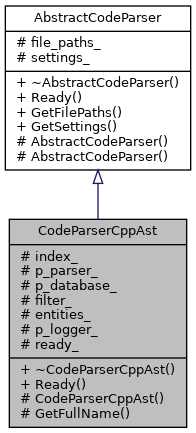
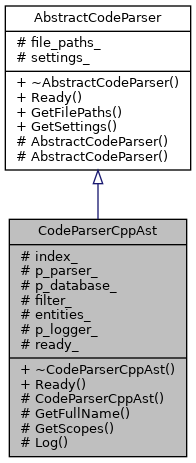
deploy: 340f6d58fc4ce7bb8d2b711c8d35426fe6431978

Changed region(s): [[0.0, 0.0, 0.9796, 0.9908]]

diff --git a/class_function_parser_impl.html b/class_function_parser_impl.html
@@ -100,8 +100,8 @@ Inheritance diagram for FunctionParserImpl:</div>
 <div class="dyncontent">
 <div class="center"><img src="class_function_parser_impl__inherit__graph.png" border="0" usemap="#a_function_parser_impl_inherit__map" alt="Inheritance graph"/></div>
 <map name="a_function_parser_impl_inherit__map" id="a_function_parser_impl_inherit__map">
-<area shape="rect" title="Code ParserCppAst Class." alt="" coords="7,476,189,597"/>
-<area shape="rect" href="class_code_parser_cpp_ast.html" title="Code ParserCppAst Class." alt="" coords="9,219,187,428"/>
+<area shape="rect" title="Code ParserCppAst Class." alt="" coords="7,505,189,627"/>
+<area shape="rect" href="class_code_parser_cpp_ast.html" title="Code ParserCppAst Class." alt="" coords="9,219,187,457"/>
 <area shape="rect" href="class_abstract_code_parser.html" title="Abstract Code Parser Class." alt="" coords="5,5,191,171"/>
 </map>
 </div>
@@ -110,8 +110,8 @@ Collaboration diagram for FunctionParserImpl:</div>
 <div class="dyncontent">
 <div class="center"><img src="class_function_parser_impl__coll__graph.png" border="0" usemap="#a_function_parser_impl_coll__map" alt="Collaboration graph"/></div>
 <map name="a_function_parser_impl_coll__map" id="a_function_parser_impl_coll__map">
-<area shape="rect" title="Code ParserCppAst Class." alt="" coords="7,476,189,597"/>
-<area shape="rect" href="class_code_parser_cpp_ast.html" title="Code ParserCppAst Class." alt="" coords="9,219,187,428"/>
+<area shape="rect" title="Code ParserCppAst Class." alt="" coords="7,505,189,627"/>
+<area shape="rect" href="class_code_parser_cpp_ast.html" title="Code ParserCppAst Class." alt="" coords="9,219,187,457"/>
 <area shape="rect" href="class_abstract_code_parser.html" title="Abstract Code Parser Class." alt="" coords="5,5,191,171"/>
 </map>
 </div>
@@ -148,6 +148,12 @@ Additional Inherited Members</h2></td></tr>
 <tr class="memitem:a7c9e9c3e6278fd7e05356bb143491103 inherit pro_methods_class_code_parser_cpp_ast"><td class="memItemLeft" align="right" valign="top"><a id="a7c9e9c3e6278fd7e05356bb143491103"></a>
 std::string&#160;</td><td class="memItemRight" valign="bottom"><b>GetFullName</b> (const cppast::cpp_entity &amp;e) const noexcept</td></tr>
 <tr class="separator:a7c9e9c3e6278fd7e05356bb143491103 inherit pro_methods_class_code_parser_cpp_ast"><td class="memSeparator" colspan="2">&#160;</td></tr>
+<tr class="memitem:a89ec1f7739b1e8ec91671db707b5962d inherit pro_methods_class_code_parser_cpp_ast"><td class="memItemLeft" align="right" valign="top"><a id="a89ec1f7739b1e8ec91671db707b5962d"></a>
+std::vector&lt; std::string &gt;&#160;</td><td class="memItemRight" valign="bottom"><b>GetScopes</b> (const cppast::cpp_entity &amp;e) const noexcept</td></tr>
+<tr class="separator:a89ec1f7739b1e8ec91671db707b5962d inherit pro_methods_class_code_parser_cpp_ast"><td class="memSeparator" colspan="2">&#160;</td></tr>
+<tr class="memitem:a2d35e339d9688e3a97d70929dc9afac1 inherit pro_methods_class_code_parser_cpp_ast"><td class="memItemLeft" align="right" valign="top"><a id="a2d35e339d9688e3a97d70929dc9afac1"></a>
+void&#160;</td><td class="memItemRight" valign="bottom"><b>Log</b> (const std::string &amp;label, const std::string &amp;message, cppast::severity severity) const noexcept</td></tr>
+<tr class="separator:a2d35e339d9688e3a97d70929dc9afac1 inherit pro_methods_class_code_parser_cpp_ast"><td class="memSeparator" colspan="2">&#160;</td></tr>
 <tr class="inherit_header pro_methods_class_abstract_code_parser"><td colspan="2" onclick="javascript:toggleInherit('pro_methods_class_abstract_code_parser')"><img src="closed.png" alt="-"/>&#160;Protected Member Functions inherited from <a class="el" href="class_abstract_code_parser.html">AbstractCodeParser</a></td></tr>
 <tr class="memitem:ad64516de2319ef2c36560e693b7c27b0 inherit pro_methods_class_abstract_code_parser"><td class="memItemLeft" align="right" valign="top"><a id="ad64516de2319ef2c36560e693b7c27b0"></a>
 &#160;</td><td class="memItemRight" valign="bottom"><b>AbstractCodeParser</b> (const std::vector&lt; std::string &gt; &amp;file_paths)</td></tr>

diff --git a/_code_parser_cpp_ast_8h_source.html b/_code_parser_cpp_ast_8h_source.html
@@ -113,15 +113,17 @@ $(document).ready(function(){initNavTree('_code_parser_cpp_ast_8h_source.html','
 <div class="line"><a name="l00028"></a><span class="lineno">   28</span>&#160;  <a class="code" href="class_code_parser_cpp_ast.html">CodeParserCppAst</a>(<span class="keyword">const</span> std::vector&lt;std::string&gt; &amp;file_paths, <span class="keyword">const</span> FilterType &amp;filter,</div>
 <div class="line"><a name="l00029"></a><span class="lineno">   29</span>&#160;                   <span class="keyword">const</span> std::string &amp;compile_database_path, <span class="keywordtype">bool</span> verbose);</div>
 <div class="line"><a name="l00030"></a><span class="lineno">   30</span>&#160;  std::string GetFullName(<span class="keyword">const</span> cppast::cpp_entity &amp;e) <span class="keyword">const</span> noexcept;</div>
-<div class="line"><a name="l00031"></a><span class="lineno">   31</span>&#160; </div>
-<div class="line"><a name="l00032"></a><span class="lineno">   32</span>&#160;  ResultTypeIndex index_;</div>
-<div class="line"><a name="l00033"></a><span class="lineno">   33</span>&#160;  std::unique_ptr&lt;ParserType&gt; p_parser_;</div>
-<div class="line"><a name="l00034"></a><span class="lineno">   34</span>&#160;  std::unique_ptr&lt;DatabaseType&gt; p_database_;</div>
-<div class="line"><a name="l00035"></a><span class="lineno">   35</span>&#160;  FilterType filter_;</div>
-<div class="line"><a name="l00036"></a><span class="lineno">   36</span>&#160;  std::vector&lt;EntityType&gt; entities_;</div>
-<div class="line"><a name="l00037"></a><span class="lineno">   37</span>&#160;  std::unique_ptr&lt;LoggerType&gt; p_logger_;</div>
-<div class="line"><a name="l00038"></a><span class="lineno">   38</span>&#160;  <span class="keywordtype">bool</span> ready_;</div>
-<div class="line"><a name="l00039"></a><span class="lineno">   39</span>&#160;};</div>
+<div class="line"><a name="l00031"></a><span class="lineno">   31</span>&#160;  std::vector&lt;std::string&gt; GetScopes(<span class="keyword">const</span> cppast::cpp_entity &amp;e) <span class="keyword">const</span> noexcept;</div>
+<div class="line"><a name="l00032"></a><span class="lineno">   32</span>&#160;  <span class="keywordtype">void</span> Log(<span class="keyword">const</span> std::string &amp;label, <span class="keyword">const</span> std::string &amp;message, cppast::severity severity) <span class="keyword">const</span> noexcept;</div>
+<div class="line"><a name="l00033"></a><span class="lineno">   33</span>&#160; </div>
+<div class="line"><a name="l00034"></a><span class="lineno">   34</span>&#160;  ResultTypeIndex index_;</div>
+<div class="line"><a name="l00035"></a><span class="lineno">   35</span>&#160;  std::unique_ptr&lt;ParserType&gt; p_parser_;</div>
+<div class="line"><a name="l00036"></a><span class="lineno">   36</span>&#160;  std::unique_ptr&lt;DatabaseType&gt; p_database_;</div>
+<div class="line"><a name="l00037"></a><span class="lineno">   37</span>&#160;  FilterType filter_;</div>
+<div class="line"><a name="l00038"></a><span class="lineno">   38</span>&#160;  std::vector&lt;EntityType&gt; entities_;</div>
+<div class="line"><a name="l00039"></a><span class="lineno">   39</span>&#160;  std::unique_ptr&lt;LoggerType&gt; p_logger_;</div>
+<div class="line"><a name="l00040"></a><span class="lineno">   40</span>&#160;  <span class="keywordtype">bool</span> ready_;</div>
+<div class="line"><a name="l00041"></a><span class="lineno">   41</span>&#160;};</div>
 <div class="ttc" id="aclass_abstract_code_parser_html"><div class="ttname"><a href="class_abstract_code_parser.html">AbstractCodeParser</a></div><div class="ttdoc">Abstract Code Parser Class.</div><div class="ttdef"><b>Definition:</b> AbstractCodeParser.h:11</div></div>
 <div class="ttc" id="aclass_code_parser_cpp_ast_html"><div class="ttname"><a href="class_code_parser_cpp_ast.html">CodeParserCppAst</a></div><div class="ttdoc">Code ParserCppAst Class.</div><div class="ttdef"><b>Definition:</b> CodeParserCppAst.h:14</div></div>
 </div><!-- fragment --></div><!-- contents -->

diff --git a/class_code_parser_cpp_ast-members.html b/class_code_parser_cpp_ast-members.html
@@ -98,8 +98,10 @@ $(document).ready(function(){initNavTree('class_code_parser_cpp_ast.html',''); i
   <tr bgcolor="#f0f0f0"><td class="entry"><b>filter_</b> (defined in <a class="el" href="class_code_parser_cpp_ast.html">CodeParserCppAst</a>)</td><td class="entry"><a class="el" href="class_code_parser_cpp_ast.html">CodeParserCppAst</a></td><td class="entry"><span class="mlabel">protected</span></td></tr>
   <tr bgcolor="#f0f0f0" class="even"><td class="entry"><b>GetFilePaths</b>() const noexcept (defined in <a class="el" href="class_abstract_code_parser.html">AbstractCodeParser</a>)</td><td class="entry"><a class="el" href="class_abstract_code_parser.html">AbstractCodeParser</a></td><td class="entry"></td></tr>
   <tr bgcolor="#f0f0f0"><td class="entry"><b>GetFullName</b>(const cppast::cpp_entity &amp;e) const noexcept (defined in <a class="el" href="class_code_parser_cpp_ast.html">CodeParserCppAst</a>)</td><td class="entry"><a class="el" href="class_code_parser_cpp_ast.html">CodeParserCppAst</a></td><td class="entry"><span class="mlabel">protected</span></td></tr>
-  <tr bgcolor="#f0f0f0" class="even"><td class="entry"><b>GetSettings</b>() const noexcept (defined in <a class="el" href="class_abstract_code_parser.html">AbstractCodeParser</a>)</td><td class="entry"><a class="el" href="class_abstract_code_parser.html">AbstractCodeParser</a></td><td class="entry"></td></tr>
-  <tr bgcolor="#f0f0f0"><td class="entry"><b>index_</b> (defined in <a class="el" href="class_code_parser_cpp_ast.html">CodeParserCppAst</a>)</td><td class="entry"><a class="el" href="class_code_parser_cpp_ast.html">CodeParserCppAst</a></td><td class="entry"><span class="mlabel">protected</span></td></tr>
+  <tr bgcolor="#f0f0f0" class="even"><td class="entry"><b>GetScopes</b>(const cppast::cpp_entity &amp;e) const noexcept (defined in <a class="el" href="class_code_parser_cpp_ast.html">CodeParserCppAst</a>)</td><td class="entry"><a class="el" href="class_code_parser_cpp_ast.html">CodeParserCppAst</a></td><td class="entry"><span class="mlabel">protected</span></td></tr>
+  <tr bgcolor="#f0f0f0"><td class="entry"><b>GetSettings</b>() const noexcept (defined in <a class="el" href="class_abstract_code_parser.html">AbstractCodeParser</a>)</td><td class="entry"><a class="el" href="class_abstract_code_parser.html">AbstractCodeParser</a></td><td class="entry"></td></tr>
+  <tr bgcolor="#f0f0f0" class="even"><td class="entry"><b>index_</b> (defined in <a class="el" href="class_code_parser_cpp_ast.html">CodeParserCppAst</a>)</td><td class="entry"><a class="el" href="class_code_parser_cpp_ast.html">CodeParserCppAst</a></td><td class="entry"><span class="mlabel">protected</span></td></tr>
+  <tr bgcolor="#f0f0f0"><td class="entry"><b>Log</b>(const std::string &amp;label, const std::string &amp;message, cppast::severity severity) const noexcept (defined in <a class="el" href="class_code_parser_cpp_ast.html">CodeParserCppAst</a>)</td><td class="entry"><a class="el" href="class_code_parser_cpp_ast.html">CodeParserCppAst</a></td><td class="entry"><span class="mlabel">protected</span></td></tr>
   <tr bgcolor="#f0f0f0" class="even"><td class="entry"><b>p_database_</b> (defined in <a class="el" href="class_code_parser_cpp_ast.html">CodeParserCppAst</a>)</td><td class="entry"><a class="el" href="class_code_parser_cpp_ast.html">CodeParserCppAst</a></td><td class="entry"><span class="mlabel">protected</span></td></tr>
   <tr bgcolor="#f0f0f0"><td class="entry"><b>p_logger_</b> (defined in <a class="el" href="class_code_parser_cpp_ast.html">CodeParserCppAst</a>)</td><td class="entry"><a class="el" href="class_code_parser_cpp_ast.html">CodeParserCppAst</a></td><td class="entry"><span class="mlabel">protected</span></td></tr>
   <tr bgcolor="#f0f0f0" class="even"><td class="entry"><b>p_parser_</b> (defined in <a class="el" href="class_code_parser_cpp_ast.html">CodeParserCppAst</a>)</td><td class="entry"><a class="el" href="class_code_parser_cpp_ast.html">CodeParserCppAst</a></td><td class="entry"><span class="mlabel">protected</span></td></tr>

diff --git a/class_function_parser_impl-members.html b/class_function_parser_impl-members.html
@@ -101,8 +101,10 @@ $(document).ready(function(){initNavTree('class_function_parser_impl.html',''); 
   <tr bgcolor="#f0f0f0" class="even"><td class="entry"><b>GetFullName</b>(const cppast::cpp_entity &amp;e) const noexcept (defined in <a class="el" href="class_code_parser_cpp_ast.html">CodeParserCppAst</a>)</td><td class="entry"><a class="el" href="class_code_parser_cpp_ast.html">CodeParserCppAst</a></td><td class="entry"><span class="mlabel">protected</span></td></tr>
   <tr bgcolor="#f0f0f0"><td class="entry"><b>GetFunction</b>() noexcept (defined in <a class="el" href="class_function_parser_impl.html">FunctionParserImpl</a>)</td><td class="entry"><a class="el" href="class_function_parser_impl.html">FunctionParserImpl</a></td><td class="entry"></td></tr>
   <tr bgcolor="#f0f0f0" class="even"><td class="entry"><b>GetMemberFunction</b>() noexcept (defined in <a class="el" href="class_function_parser_impl.html">FunctionParserImpl</a>)</td><td class="entry"><a class="el" href="class_function_parser_impl.html">FunctionParserImpl</a></td><td class="entry"></td></tr>
-  <tr bgcolor="#f0f0f0"><td class="entry"><b>GetSettings</b>() const noexcept (defined in <a class="el" href="class_abstract_code_parser.html">AbstractCodeParser</a>)</td><td class="entry"><a class="el" href="class_abstract_code_parser.html">AbstractCodeParser</a></td><td class="entry"></td></tr>
-  <tr bgcolor="#f0f0f0" class="even"><td class="entry"><b>index_</b> (defined in <a class="el" href="class_code_parser_cpp_ast.html">CodeParserCppAst</a>)</td><td class="entry"><a class="el" href="class_code_parser_cpp_ast.html">CodeParserCppAst</a></td><td class="entry"><span class="mlabel">protected</span></td></tr>
+  <tr bgcolor="#f0f0f0"><td class="entry"><b>GetScopes</b>(const cppast::cpp_entity &amp;e) const noexcept (defined in <a class="el" href="class_code_parser_cpp_ast.html">CodeParserCppAst</a>)</td><td class="entry"><a class="el" href="class_code_parser_cpp_ast.html">CodeParserCppAst</a></td><td class="entry"><span class="mlabel">protected</span></td></tr>
+  <tr bgcolor="#f0f0f0" class="even"><td class="entry"><b>GetSettings</b>() const noexcept (defined in <a class="el" href="class_abstract_code_parser.html">AbstractCodeParser</a>)</td><td class="entry"><a class="el" href="class_abstract_code_parser.html">AbstractCodeParser</a></td><td class="entry"></td></tr>
+  <tr bgcolor="#f0f0f0"><td class="entry"><b>index_</b> (defined in <a class="el" href="class_code_parser_cpp_ast.html">CodeParserCppAst</a>)</td><td class="entry"><a class="el" href="class_code_parser_cpp_ast.html">CodeParserCppAst</a></td><td class="entry"><span class="mlabel">protected</span></td></tr>
+  <tr bgcolor="#f0f0f0" class="even"><td class="entry"><b>Log</b>(const std::string &amp;label, const std::string &amp;message, cppast::severity severity) const noexcept (defined in <a class="el" href="class_code_parser_cpp_ast.html">CodeParserCppAst</a>)</td><td class="entry"><a class="el" href="class_code_parser_cpp_ast.html">CodeParserCppAst</a></td><td class="entry"><span class="mlabel">protected</span></td></tr>
   <tr bgcolor="#f0f0f0"><td class="entry"><b>p_database_</b> (defined in <a class="el" href="class_code_parser_cpp_ast.html">CodeParserCppAst</a>)</td><td class="entry"><a class="el" href="class_code_parser_cpp_ast.html">CodeParserCppAst</a></td><td class="entry"><span class="mlabel">protected</span></td></tr>
   <tr bgcolor="#f0f0f0" class="even"><td class="entry"><b>p_logger_</b> (defined in <a class="el" href="class_code_parser_cpp_ast.html">CodeParserCppAst</a>)</td><td class="entry"><a class="el" href="class_code_parser_cpp_ast.html">CodeParserCppAst</a></td><td class="entry"><span class="mlabel">protected</span></td></tr>
   <tr bgcolor="#f0f0f0"><td class="entry"><b>p_parser_</b> (defined in <a class="el" href="class_code_parser_cpp_ast.html">CodeParserCppAst</a>)</td><td class="entry"><a class="el" href="class_code_parser_cpp_ast.html">CodeParserCppAst</a></td><td class="entry"><span class="mlabel">protected</span></td></tr>

diff --git a/struct_function_info_base-members.html b/struct_function_info_base-members.html
@@ -96,10 +96,10 @@ $(document).ready(function(){initNavTree('struct_function_info_base.html',''); i
   <tr bgcolor="#f0f0f0"><td class="entry"><b>is_noexcept</b> (defined in <a class="el" href="struct_function_info_base.html">FunctionInfoBase</a>)</td><td class="entry"><a class="el" href="struct_function_info_base.html">FunctionInfoBase</a></td><td class="entry"></td></tr>
   <tr bgcolor="#f0f0f0" class="even"><td class="entry"><b>is_variadic</b> (defined in <a class="el" href="struct_function_info_base.html">FunctionInfoBase</a>)</td><td class="entry"><a class="el" href="struct_function_info_base.html">FunctionInfoBase</a></td><td class="entry"></td></tr>
   <tr bgcolor="#f0f0f0"><td class="entry"><b>name</b> (defined in <a class="el" href="struct_function_info_base.html">FunctionInfoBase</a>)</td><td class="entry"><a class="el" href="struct_function_info_base.html">FunctionInfoBase</a></td><td class="entry"></td></tr>
-  <tr bgcolor="#f0f0f0" class="even"><td class="entry"><b>namespace_name</b> (defined in <a class="el" href="struct_function_info_base.html">FunctionInfoBase</a>)</td><td class="entry"><a class="el" href="struct_function_info_base.html">FunctionInfoBase</a></td><td class="entry"></td></tr>
-  <tr><td class="entry"><a class="el" href="struct_function_info_base.html#a1328156eaf47d5de0c595598dc772e3c">operator==</a>(const FunctionInfoBase &amp;rhs) const noexcept</td><td class="entry"><a class="el" href="struct_function_info_base.html">FunctionInfoBase</a></td><td class="entry"><span class="mlabel">inline</span></td></tr>
-  <tr bgcolor="#f0f0f0" class="even"><td class="entry"><b>parameters</b> (defined in <a class="el" href="struct_function_info_base.html">FunctionInfoBase</a>)</td><td class="entry"><a class="el" href="struct_function_info_base.html">FunctionInfoBase</a></td><td class="entry"></td></tr>
-  <tr bgcolor="#f0f0f0"><td class="entry"><b>return_type</b> (defined in <a class="el" href="struct_function_info_base.html">FunctionInfoBase</a>)</td><td class="entry"><a class="el" href="struct_function_info_base.html">FunctionInfoBase</a></td><td class="entry"></td></tr>
+  <tr class="even"><td class="entry"><a class="el" href="struct_function_info_base.html#a1328156eaf47d5de0c595598dc772e3c">operator==</a>(const FunctionInfoBase &amp;rhs) const noexcept</td><td class="entry"><a class="el" href="struct_function_info_base.html">FunctionInfoBase</a></td><td class="entry"><span class="mlabel">inline</span></td></tr>
+  <tr bgcolor="#f0f0f0"><td class="entry"><b>parameters</b> (defined in <a class="el" href="struct_function_info_base.html">FunctionInfoBase</a>)</td><td class="entry"><a class="el" href="struct_function_info_base.html">FunctionInfoBase</a></td><td class="entry"></td></tr>
+  <tr bgcolor="#f0f0f0" class="even"><td class="entry"><b>return_type</b> (defined in <a class="el" href="struct_function_info_base.html">FunctionInfoBase</a>)</td><td class="entry"><a class="el" href="struct_function_info_base.html">FunctionInfoBase</a></td><td class="entry"></td></tr>
+  <tr bgcolor="#f0f0f0"><td class="entry"><b>scopes</b> (defined in <a class="el" href="struct_function_info_base.html">FunctionInfoBase</a>)</td><td class="entry"><a class="el" href="struct_function_info_base.html">FunctionInfoBase</a></td><td class="entry"></td></tr>
   <tr bgcolor="#f0f0f0" class="even"><td class="entry"><b>signature</b> (defined in <a class="el" href="struct_function_info_base.html">FunctionInfoBase</a>)</td><td class="entry"><a class="el" href="struct_function_info_base.html">FunctionInfoBase</a></td><td class="entry"></td></tr>
 </table></div><!-- contents -->
 </div><!-- doc-content -->

diff --git a/class_code_parser_cpp_ast.html b/class_code_parser_cpp_ast.html
@@ -102,8 +102,8 @@ Inheritance diagram for CodeParserCppAst:</div>
 <div class="dyncontent">
 <div class="center"><img src="class_code_parser_cpp_ast__inherit__graph.png" border="0" usemap="#a_code_parser_cpp_ast_inherit__map" alt="Inheritance graph"/></div>
 <map name="a_code_parser_cpp_ast_inherit__map" id="a_code_parser_cpp_ast_inherit__map">
-<area shape="rect" title="Code ParserCppAst Class." alt="" coords="9,219,187,428"/>
-<area shape="rect" href="class_function_parser_impl.html" title="Code ParserCppAst Class." alt="" coords="7,476,189,597"/>
+<area shape="rect" title="Code ParserCppAst Class." alt="" coords="9,219,187,457"/>
+<area shape="rect" href="class_function_parser_impl.html" title="Code ParserCppAst Class." alt="" coords="7,505,189,627"/>
 <area shape="rect" href="class_abstract_code_parser.html" title="Abstract Code Parser Class." alt="" coords="5,5,191,171"/>
 </map>
 </div>
@@ -112,7 +112,7 @@ Collaboration diagram for CodeParserCppAst:</div>
 <div class="dyncontent">
 <div class="center"><img src="class_code_parser_cpp_ast__coll__graph.png" border="0" usemap="#a_code_parser_cpp_ast_coll__map" alt="Collaboration graph"/></div>
 <map name="a_code_parser_cpp_ast_coll__map" id="a_code_parser_cpp_ast_coll__map">
-<area shape="rect" title="Code ParserCppAst Class." alt="" coords="9,219,187,428"/>
+<area shape="rect" title="Code ParserCppAst Class." alt="" coords="9,219,187,457"/>
 <area shape="rect" href="class_abstract_code_parser.html" title="Abstract Code Parser Class." alt="" coords="5,5,191,171"/>
 </map>
 </div>
@@ -138,6 +138,12 @@ Protected Member Functions</h2></td></tr>
 <tr class="memitem:a7c9e9c3e6278fd7e05356bb143491103"><td class="memItemLeft" align="right" valign="top"><a id="a7c9e9c3e6278fd7e05356bb143491103"></a>
 std::string&#160;</td><td class="memItemRight" valign="bottom"><b>GetFullName</b> (const cppast::cpp_entity &amp;e) const noexcept</td></tr>
 <tr class="separator:a7c9e9c3e6278fd7e05356bb143491103"><td class="memSeparator" colspan="2">&#160;</td></tr>
+<tr class="memitem:a89ec1f7739b1e8ec91671db707b5962d"><td class="memItemLeft" align="right" valign="top"><a id="a89ec1f7739b1e8ec91671db707b5962d"></a>
+std::vector&lt; std::string &gt;&#160;</td><td class="memItemRight" valign="bottom"><b>GetScopes</b> (const cppast::cpp_entity &amp;e) const noexcept</td></tr>
+<tr class="separator:a89ec1f7739b1e8ec91671db707b5962d"><td class="memSeparator" colspan="2">&#160;</td></tr>
+<tr class="memitem:a2d35e339d9688e3a97d70929dc9afac1"><td class="memItemLeft" align="right" valign="top"><a id="a2d35e339d9688e3a97d70929dc9afac1"></a>
+void&#160;</td><td class="memItemRight" valign="bottom"><b>Log</b> (const std::string &amp;label, const std::string &amp;message, cppast::severity severity) const noexcept</td></tr>
+<tr class="separator:a2d35e339d9688e3a97d70929dc9afac1"><td class="memSeparator" colspan="2">&#160;</td></tr>
 <tr class="inherit_header pro_methods_class_abstract_code_parser"><td colspan="2" onclick="javascript:toggleInherit('pro_methods_class_abstract_code_parser')"><img src="closed.png" alt="-"/>&#160;Protected Member Functions inherited from <a class="el" href="class_abstract_code_parser.html">AbstractCodeParser</a></td></tr>
 <tr class="memitem:ad64516de2319ef2c36560e693b7c27b0 inherit pro_methods_class_abstract_code_parser"><td class="memItemLeft" align="right" valign="top"><a id="ad64516de2319ef2c36560e693b7c27b0"></a>
 &#160;</td><td class="memItemRight" valign="bottom"><b>AbstractCodeParser</b> (const std::vector&lt; std::string &gt; &amp;file_paths)</td></tr>

diff --git a/navtreeindex0.js b/navtreeindex0.js
@@ -30,15 +30,17 @@ var NAVTREEINDEX0 =
 "class_code_parser_cpp_ast.html":[3,0,3],
 "class_code_parser_cpp_ast.html#a01d0d2346f83780bf6a6ff80cd6edf77":[3,0,3,0],
 "class_code_parser_cpp_ast.html#a10646d81d742473223e2cd743f2b3803":[3,0,3,1],
-"class_code_parser_cpp_ast.html#a2f7fb495a85293992cb555c80c7af946":[3,0,3,10],
-"class_code_parser_cpp_ast.html#a4db4209bf5d74e3afe8fdd2f8b109b6a":[3,0,3,3],
-"class_code_parser_cpp_ast.html#a5b88f2d4afb970e70eabc4706f161071":[3,0,3,7],
-"class_code_parser_cpp_ast.html#a6c5fae9a4196ba56f55954fdaf237d6b":[3,0,3,4],
+"class_code_parser_cpp_ast.html#a2d35e339d9688e3a97d70929dc9afac1":[3,0,3,4],
+"class_code_parser_cpp_ast.html#a2f7fb495a85293992cb555c80c7af946":[3,0,3,12],
+"class_code_parser_cpp_ast.html#a4db4209bf5d74e3afe8fdd2f8b109b6a":[3,0,3,5],
+"class_code_parser_cpp_ast.html#a5b88f2d4afb970e70eabc4706f161071":[3,0,3,9],
+"class_code_parser_cpp_ast.html#a6c5fae9a4196ba56f55954fdaf237d6b":[3,0,3,6],
 "class_code_parser_cpp_ast.html#a7c9e9c3e6278fd7e05356bb143491103":[3,0,3,2],
-"class_code_parser_cpp_ast.html#a80d04233d07bb03a4f7b81e415230bd2":[3,0,3,5],
-"class_code_parser_cpp_ast.html#aaac58e70bc54ade18e6aa97fb29163b5":[3,0,3,6],
-"class_code_parser_cpp_ast.html#af2ea7ae565c5895eb93bc1af96794cc9":[3,0,3,9],
-"class_code_parser_cpp_ast.html#af46c299a043bbe41afb420aaea52752f":[3,0,3,8],
+"class_code_parser_cpp_ast.html#a80d04233d07bb03a4f7b81e415230bd2":[3,0,3,7],
+"class_code_parser_cpp_ast.html#a89ec1f7739b1e8ec91671db707b5962d":[3,0,3,3],
+"class_code_parser_cpp_ast.html#aaac58e70bc54ade18e6aa97fb29163b5":[3,0,3,8],
+"class_code_parser_cpp_ast.html#af2ea7ae565c5895eb93bc1af96794cc9":[3,0,3,11],
+"class_code_parser_cpp_ast.html#af46c299a043bbe41afb420aaea52752f":[3,0,3,10],
 "class_function_parser.html":[3,0,6],
 "class_function_parser.html#a5e80675c4567d6dbf57f8a1a4894269f":[3,0,6,2],
 "class_function_parser.html#a7ae881c747373f578086170d58f6a5f6":[3,0,6,3],
@@ -81,13 +83,13 @@ var NAVTREEINDEX0 =
 "struct_function_info_base.html#a13d15b1b9093853e6567a458125aed7d":[3,0,5,3],
 "struct_function_info_base.html#a4f97312e655f23d09322c238feeed8dd":[3,0,5,6],
 "struct_function_info_base.html#a8f6178ad4111d7b74a694a20cdc9468c":[3,0,5,1],
-"struct_function_info_base.html#aade7c6eaf887dc6d22d0ad11ea58897e":[3,0,5,9],
-"struct_function_info_base.html#ac2ecd66cafab17d770f9e93345198dca":[3,0,5,8],
+"struct_function_info_base.html#aade7c6eaf887dc6d22d0ad11ea58897e":[3,0,5,8],
+"struct_function_info_base.html#ab75e9ca3330d8b957261ba398d8ff37f":[3,0,5,9],
+"struct_function_info_base.html#ac2ecd66cafab17d770f9e93345198dca":[3,0,5,7],
 "struct_function_info_base.html#ad6e3fb462bdb5402b3d91641932c2d69":[3,0,5,10],
 "struct_function_info_base.html#adbff0c51a1e7e77e5621437be349efd5":[3,0,5,5],
 "struct_function_info_base.html#ae43bc616e5b3e9352f62d4c68608495e":[3,0,5,4],
 "struct_function_info_base.html#ae6290dd1a6a8fced103569a68ec55305":[3,0,5,2],
-"struct_function_info_base.html#afa7f1c8bde3227c218246fc181678a13":[3,0,5,7],
 "struct_member_function_info.html":[3,0,9],
 "struct_member_function_info.html#a0810f63ec37e54c2ae62b83585b0d92b":[3,0,9,7],
 "struct_member_function_info.html#a44a151cb8e3db28bd044f28d728283a7":[3,0,9,5],

diff --git a/_function_info_8h_source.html b/_function_info_8h_source.html
@@ -96,7 +96,7 @@ $(document).ready(function(){initNavTree('_function_info_8h_source.html',''); in
 <div class="line"><a name="l00007"></a><span class="lineno">    7</span>&#160;  std::string return_type;</div>
 <div class="line"><a name="l00008"></a><span class="lineno">    8</span>&#160;  std::string signature;</div>
 <div class="line"><a name="l00009"></a><span class="lineno">    9</span>&#160;  std::vector&lt;std::string&gt; parameters;</div>
-<div class="line"><a name="l00010"></a><span class="lineno">   10</span>&#160;  std::string namespace_name;</div>
+<div class="line"><a name="l00010"></a><span class="lineno">   10</span>&#160;  std::string scopes;</div>
 <div class="line"><a name="l00011"></a><span class="lineno">   11</span>&#160;  <span class="keywordtype">bool</span> is_noexcept = <span class="keyword">false</span>;</div>
 <div class="line"><a name="l00012"></a><span class="lineno">   12</span>&#160;  <span class="keywordtype">bool</span> is_constexpr = <span class="keyword">false</span>;</div>
 <div class="line"><a name="l00013"></a><span class="lineno">   13</span>&#160;  <span class="keywordtype">bool</span> is_consteval = <span class="keyword">false</span>;</div>
@@ -106,7 +106,7 @@ $(document).ready(function(){initNavTree('_function_info_8h_source.html',''); in
 <div class="line"><a name="l00026"></a><span class="lineno"><a class="line" href="struct_function_info_base.html#a1328156eaf47d5de0c595598dc772e3c">   26</a></span>&#160;  <span class="keywordtype">bool</span> <a class="code" href="struct_function_info_base.html#a1328156eaf47d5de0c595598dc772e3c">operator== </a>(<span class="keyword">const</span> <a class="code" href="struct_function_info_base.html">FunctionInfoBase</a> &amp;rhs) <span class="keyword">const</span> noexcept {</div>
 <div class="line"><a name="l00027"></a><span class="lineno">   27</span>&#160;    <span class="keywordflow">return</span> (name == rhs.name</div>
 <div class="line"><a name="l00028"></a><span class="lineno">   28</span>&#160;      &amp;&amp; parameters == rhs.parameters</div>
-<div class="line"><a name="l00029"></a><span class="lineno">   29</span>&#160;      &amp;&amp; namespace_name == rhs.namespace_name</div>
+<div class="line"><a name="l00029"></a><span class="lineno">   29</span>&#160;      &amp;&amp; scopes == rhs.scopes</div>
 <div class="line"><a name="l00030"></a><span class="lineno">   30</span>&#160;    );</div>
 <div class="line"><a name="l00031"></a><span class="lineno">   31</span>&#160;  }</div>
 <div class="line"><a name="l00032"></a><span class="lineno">   32</span>&#160;} <a class="code" href="struct_function_info_base.html">FunctionBase</a>;</div>

diff --git a/struct_function_info_base.html b/struct_function_info_base.html
@@ -96,7 +96,7 @@ Collaboration diagram for FunctionInfoBase:</div>
 <div class="dyncontent">
 <div class="center"><img src="struct_function_info_base__coll__graph.png" border="0" usemap="#a_function_info_base_coll__map" alt="Collaboration graph"/></div>
 <map name="a_function_info_base_coll__map" id="a_function_info_base_coll__map">
-<area shape="rect" title=" " alt="" coords="5,5,161,215"/>
+<area shape="rect" title=" " alt="" coords="5,5,140,215"/>
 </map>
 </div>
 <table class="memberdecls">
@@ -120,9 +120,9 @@ std::string&#160;</td><td class="memItemRight" valign="bottom"><b>signature</b><
 <tr class="memitem:ac2ecd66cafab17d770f9e93345198dca"><td class="memItemLeft" align="right" valign="top"><a id="ac2ecd66cafab17d770f9e93345198dca"></a>
 std::vector&lt; std::string &gt;&#160;</td><td class="memItemRight" valign="bottom"><b>parameters</b></td></tr>
 <tr class="separator:ac2ecd66cafab17d770f9e93345198dca"><td class="memSeparator" colspan="2">&#160;</td></tr>
-<tr class="memitem:afa7f1c8bde3227c218246fc181678a13"><td class="memItemLeft" align="right" valign="top"><a id="afa7f1c8bde3227c218246fc181678a13"></a>
-std::string&#160;</td><td class="memItemRight" valign="bottom"><b>namespace_name</b></td></tr>
-<tr class="separator:afa7f1c8bde3227c218246fc181678a13"><td class="memSeparator" colspan="2">&#160;</td></tr>
+<tr class="memitem:ab75e9ca3330d8b957261ba398d8ff37f"><td class="memItemLeft" align="right" valign="top"><a id="ab75e9ca3330d8b957261ba398d8ff37f"></a>
+std::string&#160;</td><td class="memItemRight" valign="bottom"><b>scopes</b></td></tr>
+<tr class="separator:ab75e9ca3330d8b957261ba398d8ff37f"><td class="memSeparator" colspan="2">&#160;</td></tr>
 <tr class="memitem:ae43bc616e5b3e9352f62d4c68608495e"><td class="memItemLeft" align="right" valign="top"><a id="ae43bc616e5b3e9352f62d4c68608495e"></a>
 bool&#160;</td><td class="memItemRight" valign="bottom"><b>is_noexcept</b> = false</td></tr>
 <tr class="separator:ae43bc616e5b3e9352f62d4c68608495e"><td class="memSeparator" colspan="2">&#160;</td></tr>

diff --git a/class_abstract_code_parser.html b/class_abstract_code_parser.html
@@ -103,9 +103,9 @@ Inheritance diagram for AbstractCodeParser:</div>
 <div class="center"><img src="class_abstract_code_parser__inherit__graph.png" border="0" usemap="#a_abstract_code_parser_inherit__map" alt="Inheritance graph"/></div>
 <map name="a_abstract_code_parser_inherit__map" id="a_abstract_code_parser_inherit__map">
 <area shape="rect" title="Abstract Code Parser Class." alt="" coords="105,5,291,171"/>
-<area shape="rect" href="class_code_parser_cpp_ast.html" title="Code ParserCppAst Class." alt="" coords="8,219,185,428"/>
-<area shape="rect" href="class_function_parser.html" title="Code ParserCppAst Class." alt="" coords="210,255,389,391"/>
-<area shape="rect" href="class_function_parser_impl.html" title="Code ParserCppAst Class." alt="" coords="5,476,188,597"/>
+<area shape="rect" href="class_code_parser_cpp_ast.html" title="Code ParserCppAst Class." alt="" coords="8,219,185,457"/>
+<area shape="rect" href="class_function_parser.html" title="Code ParserCppAst Class." alt="" coords="210,270,389,406"/>
+<area shape="rect" href="class_function_parser_impl.html" title="Code ParserCppAst Class." alt="" coords="5,505,188,627"/>
 </map>
 </div>
 <div class="dynheader">

diff --git a/struct_function_info_base.js b/struct_function_info_base.js
@@ -7,8 +7,8 @@ var struct_function_info_base =
     [ "is_noexcept", "struct_function_info_base.html#ae43bc616e5b3e9352f62d4c68608495e", null ],
     [ "is_variadic", "struct_function_info_base.html#adbff0c51a1e7e77e5621437be349efd5", null ],
     [ "name", "struct_function_info_base.html#a4f97312e655f23d09322c238feeed8dd", null ],
-    [ "namespace_name", "struct_function_info_base.html#afa7f1c8bde3227c218246fc181678a13", null ],
     [ "parameters", "struct_function_info_base.html#ac2ecd66cafab17d770f9e93345198dca", null ],
     [ "return_type", "struct_function_info_base.html#aade7c6eaf887dc6d22d0ad11ea58897e", null ],
+    [ "scopes", "struct_function_info_base.html#ab75e9ca3330d8b957261ba398d8ff37f", null ],
     [ "signature", "struct_function_info_base.html#ad6e3fb462bdb5402b3d91641932c2d69", null ]
 ];

diff --git a/class_code_parser_cpp_ast.js b/class_code_parser_cpp_ast.js
@@ -3,6 +3,8 @@ var class_code_parser_cpp_ast =
     [ "~CodeParserCppAst", "class_code_parser_cpp_ast.html#a01d0d2346f83780bf6a6ff80cd6edf77", null ],
     [ "CodeParserCppAst", "class_code_parser_cpp_ast.html#a10646d81d742473223e2cd743f2b3803", null ],
     [ "GetFullName", "class_code_parser_cpp_ast.html#a7c9e9c3e6278fd7e05356bb143491103", null ],
+    [ "GetScopes", "class_code_parser_cpp_ast.html#a89ec1f7739b1e8ec91671db707b5962d", null ],
+    [ "Log", "class_code_parser_cpp_ast.html#a2d35e339d9688e3a97d70929dc9afac1", null ],
     [ "Ready", "class_code_parser_cpp_ast.html#a4db4209bf5d74e3afe8fdd2f8b109b6a", null ],
     [ "entities_", "class_code_parser_cpp_ast.html#a6c5fae9a4196ba56f55954fdaf237d6b", null ],
     [ "filter_", "class_code_parser_cpp_ast.html#a80d04233d07bb03a4f7b81e415230bd2", null ],
